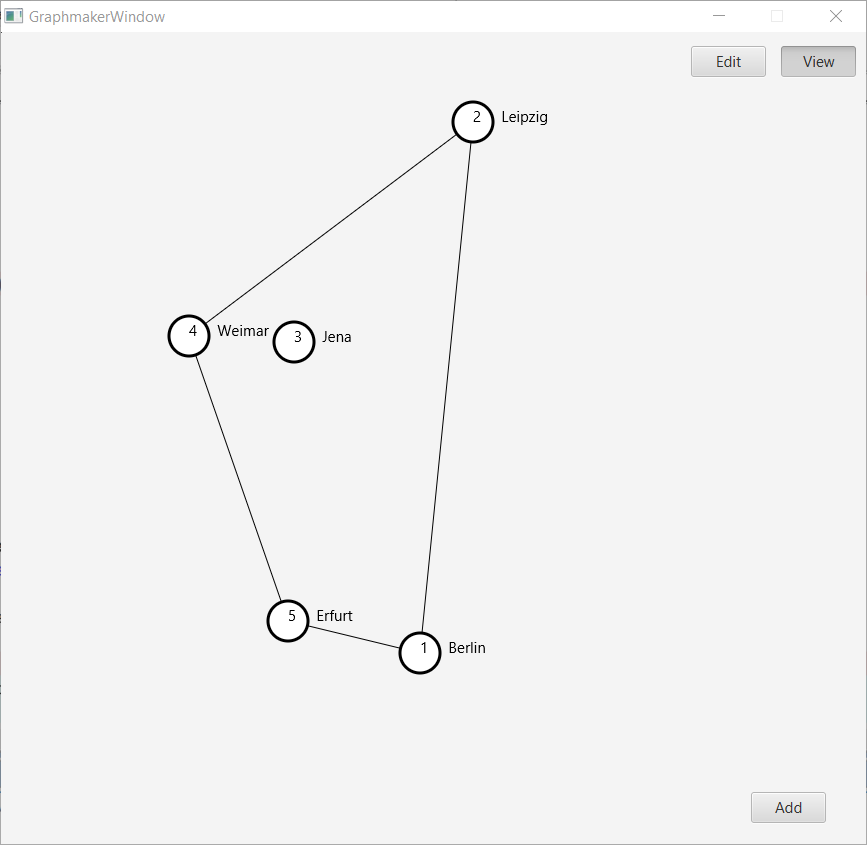
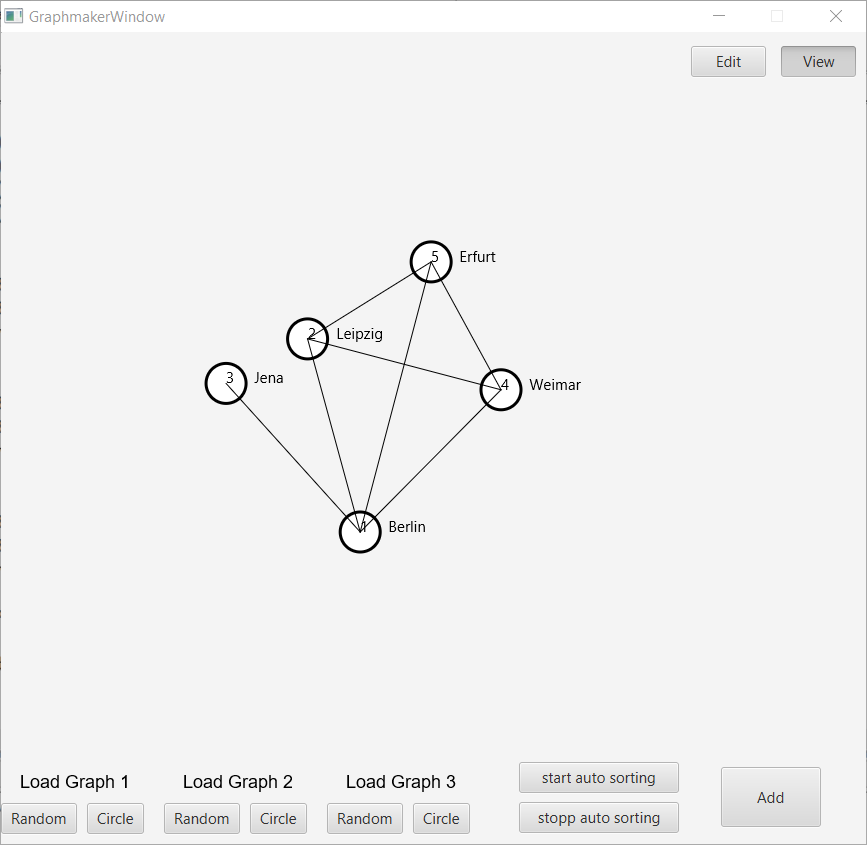
Updated readme

diff --git a/README.md b/README.md
@@ -13,12 +13,19 @@ Features:
   <li>Move nodes to customize graph</li>
   <li>Add additional information to nodes</li>
   <li>Viewmode/Editmode</li>
+  <li>3 default graphs with different drawing options</li>
 </ul>
-<br><hr>
+<br>
+The graph class contains all vertices and edges in separate dynamic lists. The vertices extend the circle and the edges the line class from javafx.
+This tactic preserves a fast and simple graphical output to the window pane.
+Edges and vertices which are bind together can be found by comparing the vertex location and the start/end location of the edge.
+Each vertex has a hashmap which contains additional information.
+All additional data such as name, connections, number and attributes must be added when adding a vertex to the graph.  
+<hr>
 <h3>Add node</h3>
 <div>
   <img src="/images/addwindow.PNG" alt="Screenshot" title="Screenshot-2" width="50%" style="margin:5px"/>
-  <p>By clicking the add button on the mainwindow a popup window opens.<br> 
+  <p>By clicking the add button on the main window a popup window opens.<br> 
   Through the given input fields a customized node can be added.<p><br>
 </div>
   <h4>Note:</h4> The following input layout has to be used, else errors could occur!<br>
